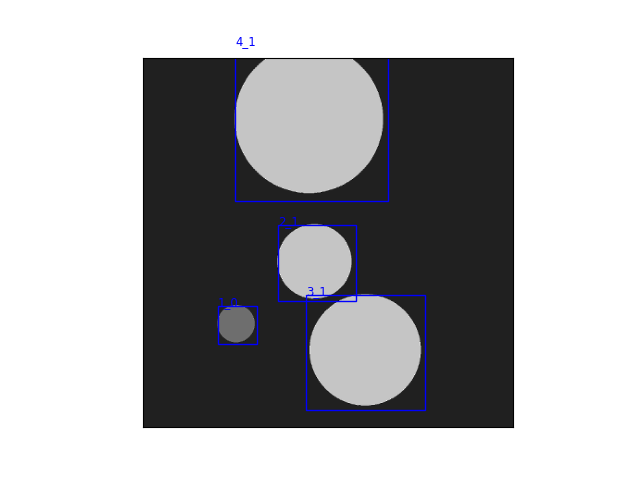
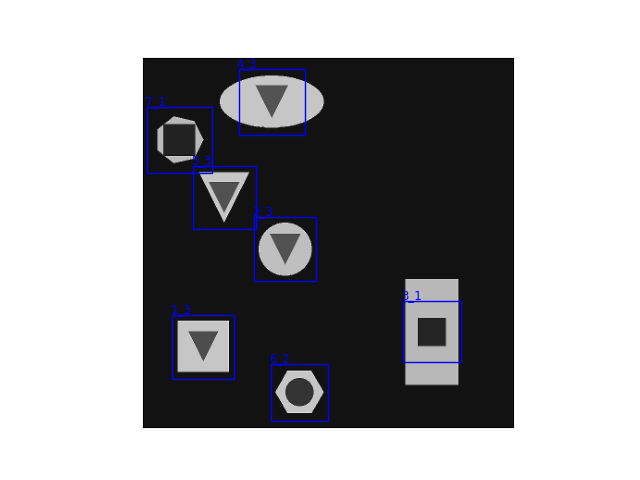
Update README.md

Changed region(s): [[0.2188, 0.125, 0.75, 0.9062], [0.25, 0.625, 0.4062, 0.8125], [0.375, 0.0625, 0.4062, 0.0938]]

diff --git a/README.md b/README.md
@@ -8,20 +8,30 @@ The purpose of this modification is to remove patient filter criteria and provid
 
 ![](/assets/paper.png)
 
-### Test Dataset
-The test dataset used in this repository consists of images of circles with different sizes and brightness levels. 
-Each circle has two scores: score_1, determined based on the size of the circle, and score_2, determined based on the brightness of the circle. The RetinaNet model in this repository attempts to detect the circles based on both scores. In the original paper, score_1 was defined as the joint score and score_2 as the SvH score.
+### Test dataset
+The test dataset used in this repository consists of images of different shapes, where each shape consists of an outer and an inner shape. The outer shape (score_1) represents the environment (hence as in the paper the joint), while the inner shape (score_2) represents the aquivalent to erosion. In each image, each score_1 always occurs exactly once, whereas score_2 is random.
 
+Score_1 and score_2 are defined on the basis of the shape, whereas score_2 can only take the values 1 to 3:
+
+- 1 = rectangle
+- 2 = circle
+- 3 = line
+- 4 = ellipse
+- 5 = triangle
+- 6 = pentagon
+- 7 = Hexagon
+
+The RetinaNet model in this repository attempts to recognise the shapes based on both scores.
 #### Ground truth
 ![](/assets/gt_image.png)
 
-#### Prediction after 20 Epochs with adaptive adjustment after 20 Epochs
+#### Prediction after 20 Epochs with adaptive adjustment
 
-![](/assets/gt_image.png)
+![](/assets/with_adjustment.png)
 
-#### Prediction after 20 Epochs without adaptive
+#### Prediction after 20 Epochs without adaptive adjustment
 
-![](/assets/gt_image.png)
+![](/assets/without_adjustment.png)
 
 ### Installation
 To install the required dependencies for this repository, use the following command:
